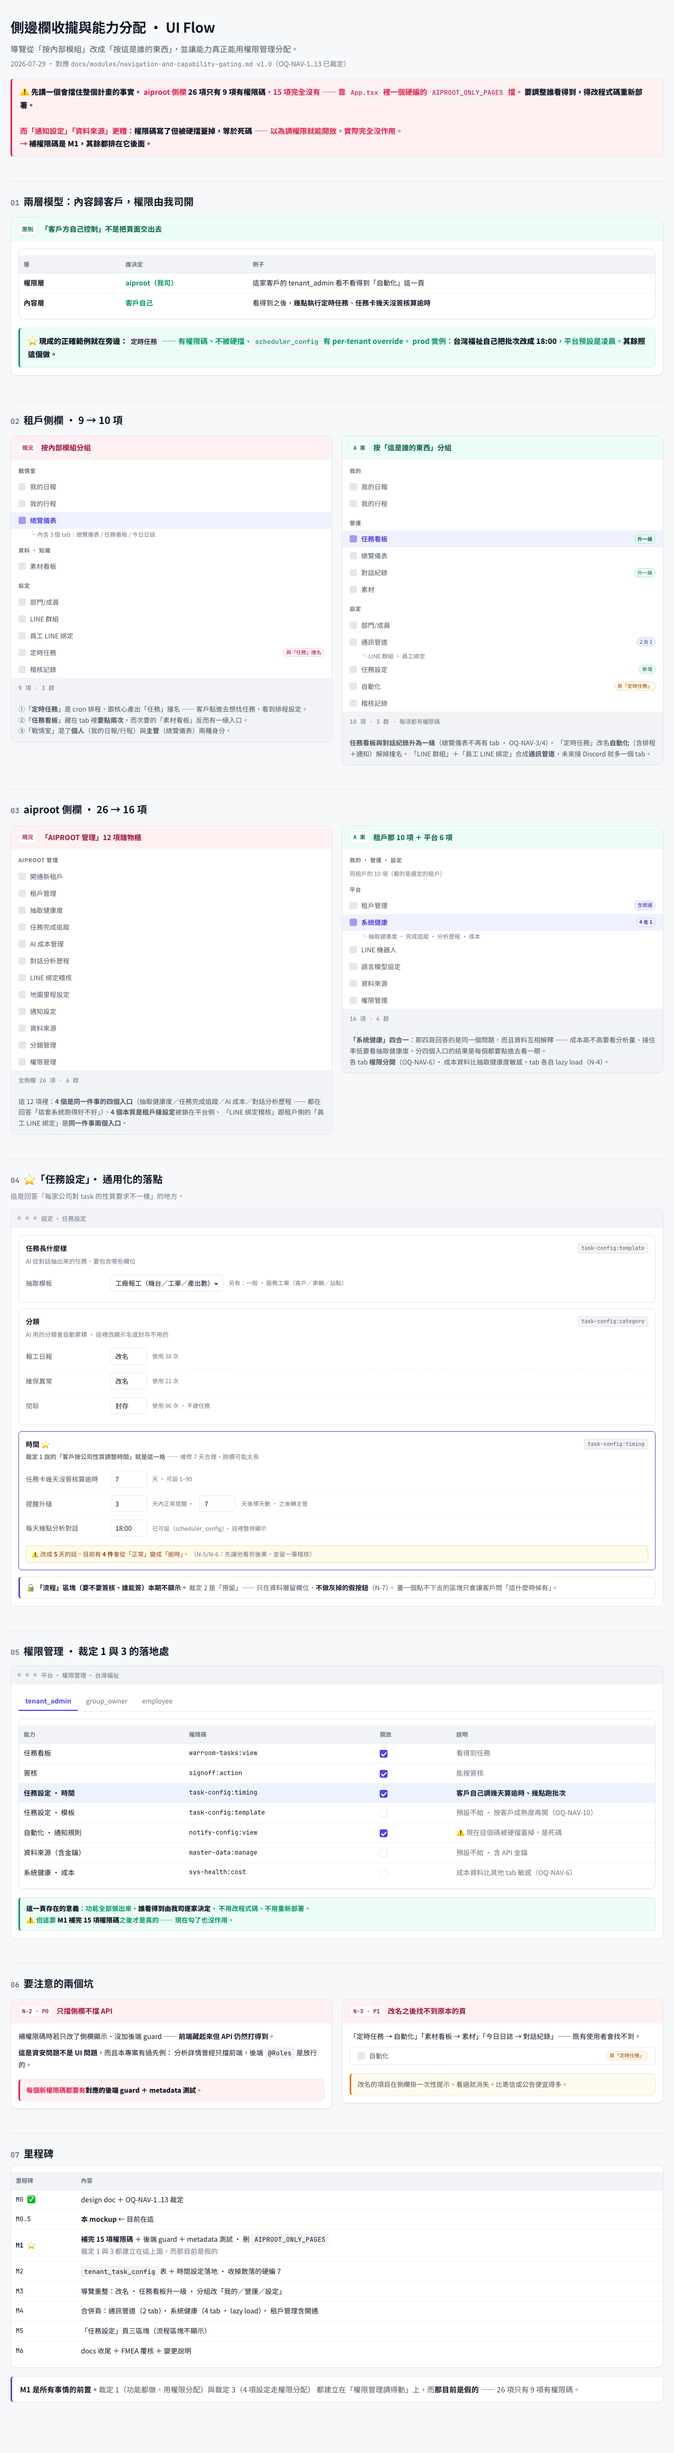
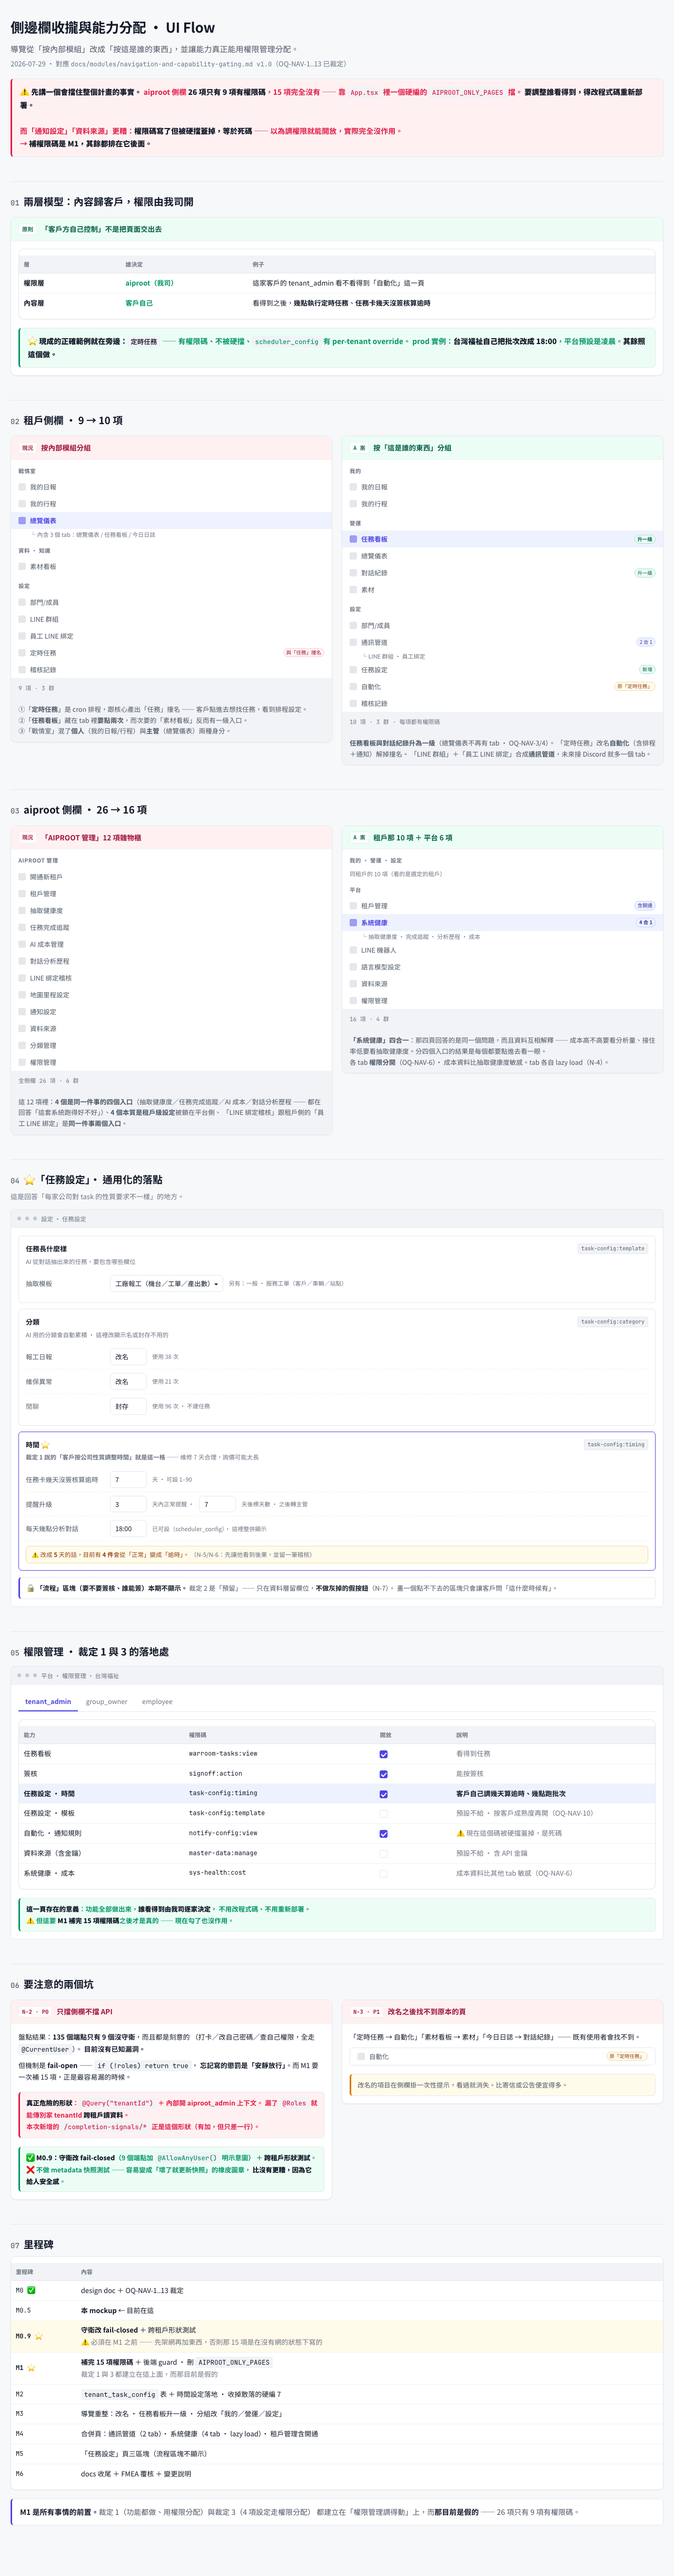
docs(nav): v1.1 · N-2 的具體緩解 · 守衛改 fail-closed 排在 M1 之前
用戶追問「只擋側欄不擋 API」怎麼辦。盤點後現況比想像好：
135 個端點只有 9 個沒守衛，而且都是刻意的（打卡、改自己密碼、
查自己權限），全走 @CurrentUser 不接受 client 傳 tenantId，
目前沒有已知漏洞。

但機制是 fail-open —— roles.guard.ts 寫 if (!roles) return true，
忘記寫的懲罰是「安靜地放行」。而 M1 要一次補 15 項權限碼，
正是最容易漏的時候。

真正危險的不是「員工看到不該看的頁」，是這種形狀：
@Query("tenantId") 進來、內部開 aiproot_admin 上下文。
漏了 @Roles 就能傳別家 tenantId 跨租戶讀資料。
本次新增的 /completion-signals/* 正是這個形狀（有加，但只差一行）。

採用兩層：守衛改 fail-closed（那 9 個端點加 @AllowAnyUser() 明示意圖，
之後忘記寫會炸在開發階段而不是安靜放行到 prod），
加上跨租戶形狀測試（吃 @Query("tenantId") 的端點必須有 @Roles
且限 aiproot/consultant —— 那是唯一會跨租戶的形狀）。

明確不做 metadata 快照測試。快照容易變成「壞了就更新快照」的橡皮圖章，
比沒有更糟，因為它給人安全感。前兩層都不依賴人的紀律。

新增里程碑 M0.9 並排在 M1 之前 —— 先架網再往上加東西，
否則那 15 項是在沒有網的狀態下寫的。

diff --git a/docs/mockup/側邊欄收攏-flow.html b/docs/mockup/側邊欄收攏-flow.html
@@ -393,15 +393,24 @@
     <div class="col-hd"><span class="tag">N-2 · P0</span>只擋側欄不擋 API</div>
     <div class="col-bd" style="padding:14px">
       <p style="font-size:13px;margin-top:0">
-        補權限碼時若只改了側欄顯示、沒加後端 guard ——
-        <b>前端藏起來但 API 仍然打得到</b>。
+        盤點結果：<b>135 個端點只有 9 個沒守衛</b>，而且都是刻意的
+        （打卡／改自己密碼／查自己權限，全走 <code>@CurrentUser</code>）。
+        <b>目前沒有已知漏洞。</b>
       </p>
       <p style="font-size:13px">
-        <b>這是資安問題不是 UI 問題</b>，而且本專案有過先例：
-        分析詳情曾經只擋前端，後端 <code>@Roles</code> 是放行的。
+        但機制是 <b>fail-open</b> —— <code>if (!roles) return true</code>，
+        <b>忘記寫的懲罰是「安靜放行」</b>。而 M1 要一次補 15 項，正是最容易漏的時候。
       </p>
-      <div class="callout bad" style="margin-bottom:0;font-size:12.5px;padding:9px 12px">
-        每個新權限碼都要有<b>對應的後端 guard ＋ metadata 測試</b>。
+      <div class="callout bad" style="font-size:12.5px;padding:9px 12px">
+        <b>真正危險的形狀</b>：<code>@Query("tenantId")</code> ＋ 內部開 aiproot_admin 上下文。
+        漏了 <code>@Roles</code> 就能傳別家 tenantId <b>跨租戶讀資料</b>。<br>
+        本次新增的 <code>/completion-signals/*</code> 正是這個形狀（有加，但只差一行）。
+      </div>
+      <div class="callout good" style="margin-bottom:0;font-size:12.5px;padding:9px 12px">
+        ✅ <b>M0.9：守衛改 fail-closed</b>（9 個端點加 <code>@AllowAnyUser()</code> 明示意圖）
+        ＋ <b>跨租戶形狀測試</b>。<br>
+        ❌ 不做 metadata 快照測試 —— 容易變成「壞了就更新快照」的橡皮圖章，
+        <b>比沒有更糟，因為它給人安全感</b>。
       </div>
     </div>
   </div>
@@ -431,8 +440,11 @@
   <tbody>
     <tr><td class="mono">M0 ✅</td><td>design doc ＋ OQ-NAV-1..13 裁定</td></tr>
     <tr><td class="mono">M0.5</td><td><b>本 mockup</b> ← 目前在這</td></tr>
+    <tr style="background:var(--warn-tint)"><td class="mono"><b>M0.9</b> ⭐</td>
+        <td><b>守衛改 fail-closed</b> ＋ 跨租戶形狀測試<br>
+        <span class="muted">⚠ 必須在 M1 之前 —— 先架網再加東西，否則那 15 項是在沒有網的狀態下寫的</span></td></tr>
     <tr><td class="mono"><b>M1</b> ⭐</td>
-        <td><b>補完 15 項權限碼</b> ＋ 後端 guard ＋ metadata 測試 · 刪 <code>AIPROOT_ONLY_PAGES</code><br>
+        <td><b>補完 15 項權限碼</b> ＋ 後端 guard · 刪 <code>AIPROOT_ONLY_PAGES</code><br>
         <span class="muted">裁定 1 與 3 都建立在這上面，而那目前是假的</span></td></tr>
     <tr><td class="mono">M2</td><td><code>tenant_task_config</code> 表 ＋ 時間設定落地 · 收掉散落的硬編 7</td></tr>
     <tr><td class="mono">M3</td><td>導覽重整：改名 · 任務看板升一級 · 分組改「我的／營運／設定」</td></tr>

diff --git a/docs/modules/navigation-and-capability-gating.md b/docs/modules/navigation-and-capability-gating.md
@@ -1,6 +1,6 @@
 # navigation-and-capability-gating · 側邊欄收攏與能力分配
 
-> 狀態：✅ **M0 v1.0**（2026-07-29）· OQ-NAV-1..13 **全採建議** · 進 M0.5（UI flow mockup）
+> 狀態：✅ **M0 v1.1**（2026-07-29）· OQ-NAV-1..13 全採建議 · M0.5 mockup 已完成 · **下一步 M0.9（守衛 fail-closed）**
 >
 > 觸發：用戶指出「每家公司對 task 的性質要求都不一樣，需要做成通用功能，請分析後收攏側邊欄」。
 >
@@ -224,13 +224,81 @@ ALTER TABLE tenants
 | # | 路徑 | 失效模式 | 影響 | 嚴重度 | 緩解 |
 |---|---|---|---|---|---|
 | **N-1** | 權限 | 15 項沒有權限碼，aiproot 以為能用權限管理調整，實際改不動 | **裁定 1 與 3 直接落空** | **P0** | M1 先補完權限碼 · 補完後把 `AIPROOT_ONLY_PAGES` 刪掉，避免兩套閘門並存 |
-| **N-2** | 權限 | 補權限碼時漏掉後端 `@Roles`，只擋了側欄 | **前端隱藏、API 仍可打** —— 這是資安不是 UI 問題 | **P0** | 每個新權限碼都要有對應的後端 guard ＋ metadata 測試（已有先例：分析詳情曾只擋前端）|
+| **N-2** | 權限 | 補權限碼時漏掉後端 `@Roles`，只擋了側欄 | **前端隱藏、API 仍可打** —— 資安不是 UI 問題 | **P0** | ⭐ **守衛改 fail-closed ＋ 跨租戶形狀測試**（§5.1）· 排在 M0.9，**必須在 M1 之前** |
 | **N-3** | 遷移 | 導覽改版後既有使用者找不到原本的頁 | 客訴、支援成本 | **P1** | 改名的項目在側欄加一次性提示（「原『定時任務』」）· 或首次登入顯示變更說明 |
 | **N-4** | 合併 | 「系統健康」四合一之後，單頁載入 4 份資料變慢 | 進頁面卡住 | **P1** | tab 各自 lazy load，只載當前 tab |
 | **N-5** | 時間設定 | 租戶把寬限期設成 0 或 999 | 0 → 全部立刻逾時；999 → 永遠不逾時 | **P1** | 範圍限制（1–90）· UI 顯示「目前設定下有 N 件會變成逾時」讓他先看到後果 |
 | **N-6** | 時間設定 | 改了寬限期，歷史任務的「逾時 N 天」全部跳動 | 主管以為資料被改過 | **P2** | 改動當下顯示影響筆數 · 稽核記錄留一筆 |
 | **N-7** | 預留 | 「要不要簽核」留了 UI 位置但不能點，客戶問「這什麼時候有」 | 期待落空 | P2 | 預留的區塊**不要顯示**，只在資料層留欄位（不做灰掉的假按鈕）|
 | **N-8** | 分組 | 「我的／營運／設定」對 employee 來說「營運」是空的 | 空群組 | **P1** | 群組內全部無權限時整群不顯示（現有 `roles` 機制已有雛形）|
+
+### 5.1 ⭐ N-2 的具體緩解（2026-07-29 盤點後）
+
+#### 現況：135 個端點，9 個完全沒有守衛裝飾
+
+盤下來那 9 個都是**刻意的**（打卡、改自己密碼、查自己權限 —— 任何登入者都該能用），
+而且都用 `@CurrentUser()` 取 `tenant_id`、不接受 client 傳。**目前沒有已知漏洞。**
+
+```
+attendance: punch / punch/:id/label / places / my-month / trips / map-tile-config
+auth: change-password
+master-data: customers        （打卡選單要用，只回名稱與編號）
+permission: me/permissions
+```
+
+#### 但機制是 fail-open
+
+```ts
+// auth/roles.guard.ts
+if (!roles || roles.length === 0) return true;   // ⚠ 沒寫裝飾器 = 放行
+```
+
+**忘記加裝飾器的懲罰是「安靜地放行」。**
+而 M1 要一次補 15 項權限碼，正是最容易漏的時候。
+
+#### 真正的危險形狀
+
+不是「員工看到不該看的頁」，是這種：
+
+```ts
+@Get("stats")
+async stats(@Query("tenantId") tenantId: string) {      // ← tenantId 來自 client
+  return withTenant({ tenantId, role: "aiproot_admin" }, ...)   // ← 內部開 admin 上下文
+}
+```
+
+漏了 `@Roles`，任何登入的員工都能傳別家 `tenantId` **跨租戶讀資料**。
+⚠ 本次新增的 `/completion-signals/*` 正是這個形狀（有加 `@Roles`，但只差一行）。
+
+#### ✅ 採用的兩層（裁定 2026-07-29）
+
+**① 守衛改 fail-closed** —— 沒有宣告存取層級就拒絕
+
+```ts
+if (!roles) {
+  if (!this.reflector.get(ALLOW_ANY_USER_KEY, handler)) {
+    throw new ForbiddenException("此端點未宣告存取層級");
+  }
+}
+```
+
+那 9 個現存端點加 `@AllowAnyUser()` **明示意圖**。
+之後忘記寫會**炸在開發階段**，而不是安靜放行到 prod。
+
+**② 跨租戶形狀測試** —— 比泛用 metadata 測試更有針對性
+
+> 任何吃 `@Query("tenantId")` 的端點，**必須**有 `@Roles` 且限 aiproot／consultant。
+
+因為那是**唯一會跨租戶**的形狀。其他端點漏了頂多是越權看自家資料，
+這個漏了是**看別家的**。
+
+#### ❌ 不做：metadata 快照測試
+
+原本 doc 寫的「列出所有端點與守衛做快照比對」**不做**。
+
+理由：快照測試容易變成「壞了就更新快照」的橡皮圖章 ——
+**那比沒有更糟，因為它給人安全感**。
+①已經讓漏寫在開發階段就炸，②守住唯一的跨租戶形狀，兩者都不依賴人的紀律。
 
 ---
 
@@ -262,7 +330,8 @@ ALTER TABLE tenants
 |---|---|---|
 | **M0** | 本文件 ＋ OQ 裁定 | ← 目前在這 |
 | **M0.5** ⭐ | **UI flow mockup**（裁定 4：視覺體驗要先看過）· 兩個視角 ＋ 任務設定頁 | M0 |
-| **M1** ⭐ | **補完 15 項權限碼** ＋ 後端 guard ＋ metadata 測試 · 刪 `AIPROOT_ONLY_PAGES` | M0.5 通過 |
+| **M0.9** ⭐ | **守衛改 fail-closed**（§5.1）· 9 個現存端點加 `@AllowAnyUser()` ＋ 跨租戶形狀測試<br>⚠ **必須在 M1 之前** —— 先把網子架好再往上加東西，否則那 15 項是在沒有網的狀態下寫的 | M0.5 通過 |
+| **M1** ⭐ | **補完 15 項權限碼** ＋ 後端 guard · 刪 `AIPROOT_ONLY_PAGES` | **M0.9** |
 | **M2** | `tenant_task_config` 表 ＋ 時間設定落地（寬限期／提醒階梯）· 收掉散落的硬編 7 | M1 |
 | **M3** | 導覽重整：改名（定時任務→自動化）· 任務看板升一級 · 分組改「我的／營運／設定」 | M1 |
 | **M4** | 合併頁：通訊管道（2 tab）· 系統健康（4 tab · lazy load）· 租戶管理含開通 | M3 |
@@ -278,6 +347,7 @@ ALTER TABLE tenants
 
 | 日期 | 版本 | 變更 | 作者 |
 |---|---|---|---|
+| 2026-07-29 | v1.1 | 用戶追問 N-2「只擋側欄不擋 API」的建議 → 盤點後新增 §5.1 · 現況 135 個端點只有 9 個沒守衛，且都是刻意的（打卡／改自己密碼／查自己權限，全走 `@CurrentUser` 不接受 client 傳 tenantId），**目前沒有已知漏洞** · 但 `roles.guard.ts` 是 **fail-open**（`if (!roles) return true`），忘記寫的懲罰是安靜放行，而 M1 要一次補 15 項正是最容易漏的時候 · 指出真正的危險形狀是「`@Query("tenantId")` ＋ 內部開 aiproot_admin 上下文」—— 漏了 `@Roles` 就是**跨租戶讀資料**，本次新增的 `/completion-signals/*` 正是這個形狀 · ✅ 採用兩層：**守衛改 fail-closed**（9 個端點加 `@AllowAnyUser()` 明示意圖）＋ **跨租戶形狀測試** · ❌ 明確**不做** metadata 快照測試 —— 容易變成「壞了就更新快照」的橡皮圖章，比沒有更糟因為它給人安全感 · 新增里程碑 **M0.9 且必須排在 M1 之前**（先架網再加東西）| ahern + Claude Code |
 | 2026-07-29 | v1.0 | ✅ **OQ-NAV-1..13 全採建議** · M0 結案，進 M0.5（UI flow mockup） | ahern |
 | 2026-07-29 | v0.2 | 用戶澄清「客戶方自己控制」的意思：控制的是**內容**（幾點執行、幾天沒簽核算逾時），**權限仍由我司開放** —— 是**兩層**不是一件事，v0.1 把它壓成一層了 · 改寫 §1.4：⭐ 發現 `定時任務` 已經是正確範例（有權限碼、不被硬擋、`scheduler_config` 有 per-tenant override，prod 實例是台灣福祉自己改成 18:00）· ⚠ 而**通知設定與資料來源的權限碼被 `AIPROOT_ONLY_PAGES` 蓋掉，等於死碼** —— 以為調權限就能開放，實際完全沒作用，是 N-1 的實證 · 新增 OQ-NAV-13 | ahern + Claude Code |
 | 2026-07-29 | v0.1 | M0 首版 · 起因是用戶要求「收攏側邊欄 ＋ task 通用化」· ⚠ 查驗發現**26 項側欄只有 9 項有權限碼、15 項完全沒有**，是靠硬編 `AIPROOT_ONLY_PAGES` 擋的 —— 用戶裁定的「透過權限管理分配」目前**做不到**，故列為 M1 前置（N-1 P0）· 指出「定時任務」與「任務」撞名、任務看板藏在 tab 裡要點兩次、AIPROOT 管理是 12 項雜物櫃、4 項租戶級設定鎖在平台側（tenant self-governance 第 3 次）· ⭐ 主張**通用化的本體不在導覽而在寫死的流程假設**，並逐條列出哪些該開放（抽取模板／時間）哪些不該（信心度門檻／結束原因 —— Jira resolution chaos 教訓）· 分組改按「這是誰的東西」而非內部模組 · 租戶 9→10、aiproot 26→16 · FMEA 8 條含 2 個 P0（權限碼落空、只擋前端不擋 API）| ahern + Claude Code |
